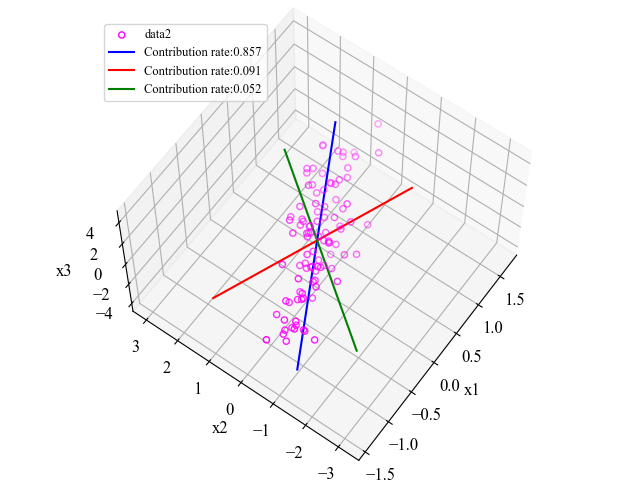
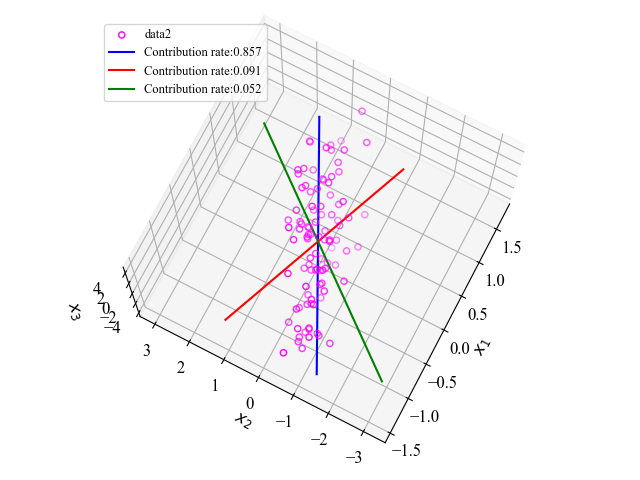
fixed graphs

diff --git a/ex6/k_hattori/main.py b/ex6/k_hattori/main.py
@@ -107,8 +107,8 @@ def main():
         )
         plt.axline((0, 0), W[:, 0], color="blue", label=str1)
         plt.axline((0, 0), W[:, 1], color="red", label=str2)
-        plt.xlabel("x1")
-        plt.ylabel("x2")
+        plt.xlabel("$x_1$")
+        plt.ylabel("$x_2$")
         plt.legend(loc="upper left")
         plt.tight_layout()
         plt.show()
@@ -137,9 +137,9 @@ def main():
         ax.plot(x, a_yx[0] * x, a_zx[0] * x, color="blue", label=str1)
         ax.plot(x, a_yx[1] * x, a_zx[1] * x, color="red", label=str2)
         ax.plot(x, a_yx[2] * x, a_zx[2] * x, color="green", label=str3)
-        ax.set_xlabel("x1")
-        ax.set_ylabel("x2")
-        ax.set_zlabel("x3")
+        ax.set_xlabel("$x_1$")
+        ax.set_ylabel("$x_2$")
+        ax.set_zlabel("$x_3$")
         plt.legend(loc="upper left", fontsize=9)
         plt.tight_layout()
         plt.show()
@@ -153,8 +153,8 @@ def main():
         )
         plt.xlim(-3, 3)
         plt.ylim(-1, 1)
-        plt.xlabel("x1")
-        plt.ylabel("x2")
+        plt.xlabel("$x_1$")
+        plt.ylabel("$x_2$")
         plt.legend(loc="upper left")
         plt.tight_layout()
         plt.show()
